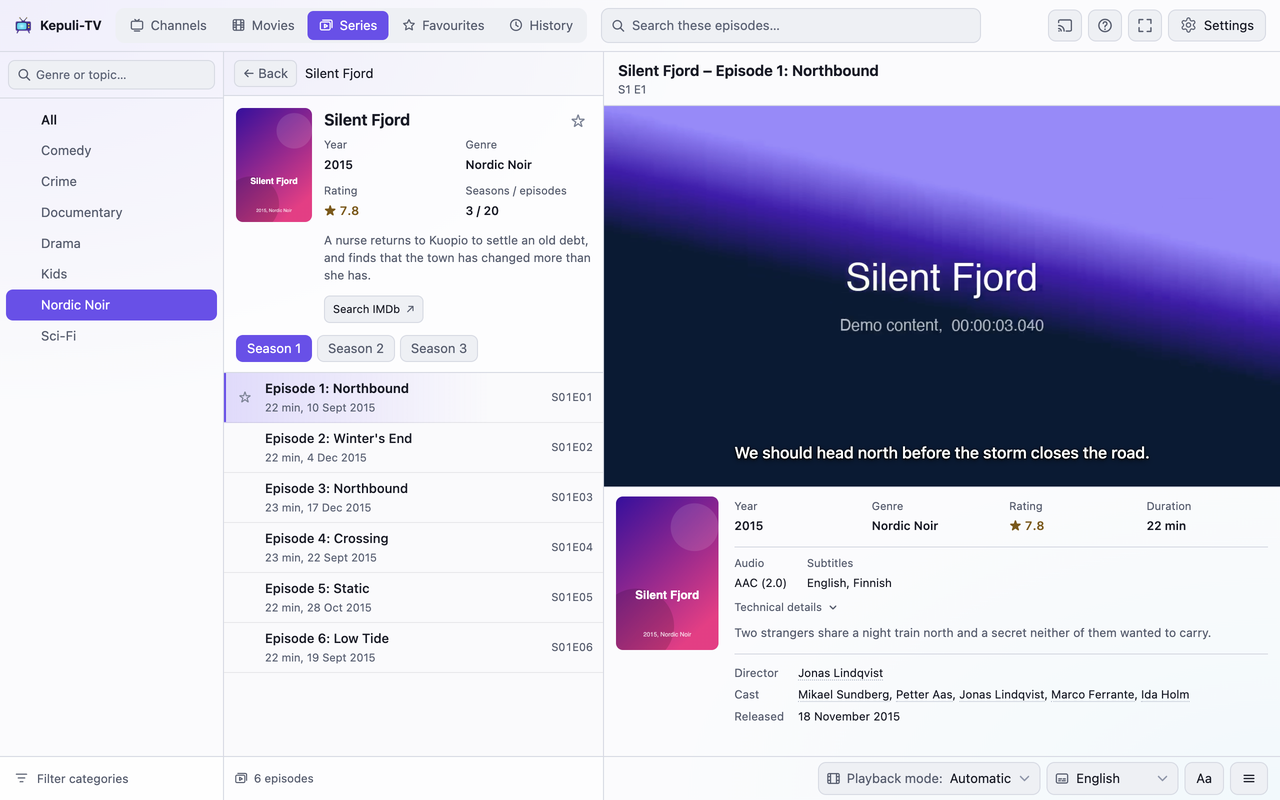
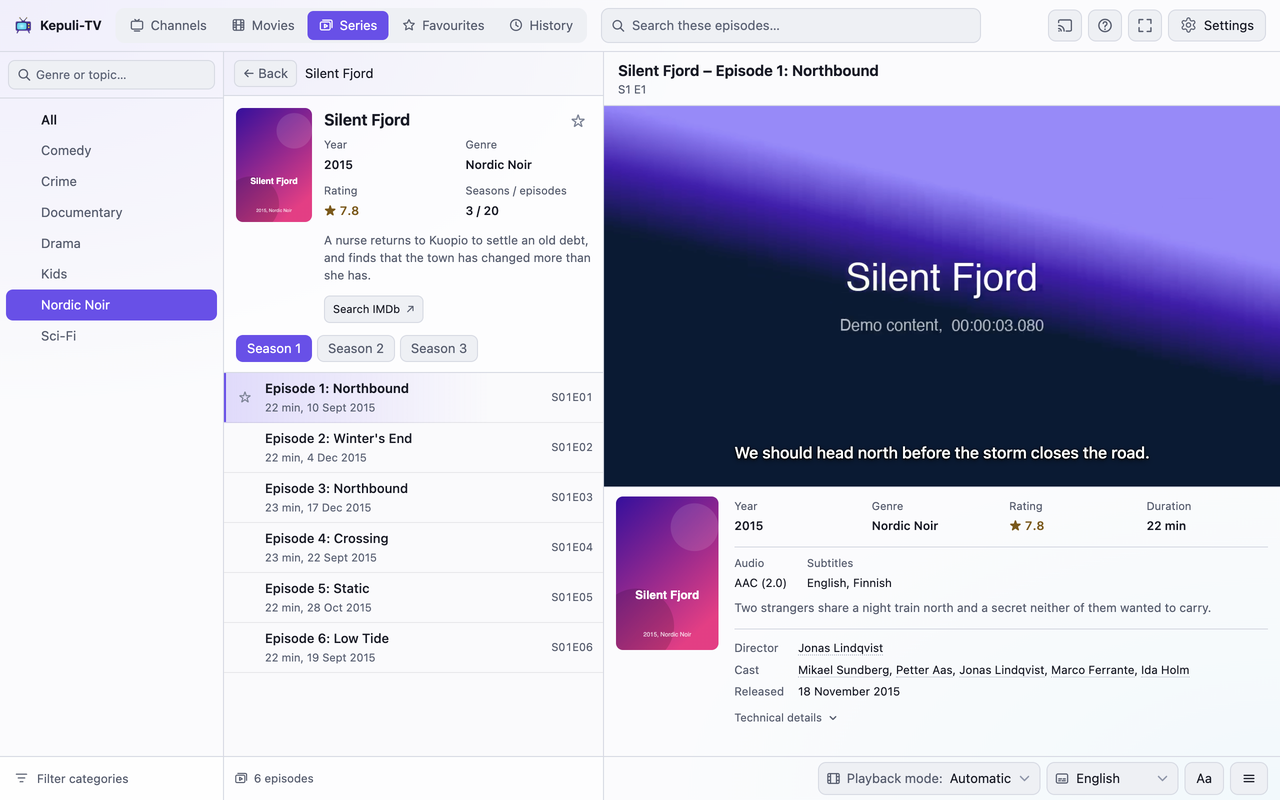
Technical details fold under the credits, and the app's picture keeps its size when they open
The fold stood between the audio line and the plot, parting the facts
of the title from what is told of it. It now comes after the credits
and before the titles alike; the audio and the subtitles stay in sight
at the top, as they decide whether one can follow the film. The
filmfacts scenario checks the place, and the reference pictures of the
film and subtitle views are retaken in both themes.

In the app the picture gave way to the details' height, so opening the
fold resized it, and the app's own picture over it followed a quarter
of a second later. Under .ios the details now take what the column has
left and scroll, and the picture is as tall as its shape. The browsers
keep the old sharing of the column.

The store screenshots of the film view still show the fold in its old
place.

Claude-Session: https://claude.ai/code/session_011jsMntd6GXRcB4RgccRtUz

Changed region(s): [[0.5625, 0.75, 0.9375, 0.9062]]

diff --git a/js/infostrip.js b/js/infostrip.js
@@ -156,7 +156,7 @@ function renderFirstDetails() {
   const named = (track) => track?.language && shortLanguage(track.language) !== 'und';
   const audio = heard && !named(heard) && named(info?.audio) ? { ...heard, language: info.audio.language } : heard;
   const subtitles = subtitleDetails(item, probed);
-  body.appendChild(playbackFacts({
+  const facts = playbackFacts({
     ext: item.ext,
     video,
     audio,
@@ -171,7 +171,13 @@ function renderFirstDetails() {
       audio: !audio && !header && state.playbackInfoLoading,
       subtitles: !subtitles && state.playbackInfoLoading,
     },
-  }));
+  });
+  // The audio and the subtitles stay up here, with what the title is; the
+  // fold of technical details goes under everything said of the title,
+  // where it does not part the facts from the plot.
+  const tech = facts.querySelector('.tech-facts');
+  tech?.remove();
+  body.appendChild(facts);
   if (info && info.plot) {
     const plot = document.createElement('div');
     plot.className = 'plot';
@@ -179,6 +185,7 @@ function renderFirstDetails() {
     body.appendChild(plot);
   }
   add(titleCredits(info, { title: item.n }));
+  if (tech) body.appendChild(tech);
   if (item.k === 1 || item.k === 2) add(relatedPart(item));
   box.appendChild(body);
   el.infostrip.replaceChildren(box);

diff --git a/css/last.css b/css/last.css
@@ -183,6 +183,15 @@ input[type="search"], input[type="text"], input[type="url"], input:not([type]) {
    full screen is in their bar, and the page's button under them could not
    be pressed. */
 .ios .videowrap.appbars .full-btn { display: none; }
+/* In the app the picture is as tall as its shape whatever the details
+   under it hold: they take what the column has left and scroll there.
+   With the details' own height as their share (css/details.css) the
+   picture gave way to them, so it changed size as the technical details
+   were opened, and the app's picture over it followed a moment later.
+   Not in a low window, whose own rule this is already (css/narrow.css). */
+@media (min-height: 441px) {
+  .ios main:not(.guide) .stage:has(> .videowrap.sized:not(:fullscreen, .full)) > .infostrip { flex: 1 1 0; }
+}
 html:not(.ios) .ios-only { display: none; }
 /* The guide's days under a finger, in a window wider than a phone's:
    the strip has all of the bar's row that the selector and the marks

diff --git a/css/playback.css b/css/playback.css
@@ -521,7 +521,7 @@ main:not(.guide) .stage:has(> .videowrap.sized:not(:fullscreen, .full)) .info-co
 .playback-warning { color: var(--gold); font-size: var(--fs-xs); }
 /* The format, the picture, the bit rate, the size and the way it plays,
    folded under the audio and the subtitles (playbackFacts). */
-.tech-facts { margin: -2px 0 8px; }
+.tech-facts { margin: 8px 0; }
 .tech-toggle { display: inline-flex; align-items: center; gap: 4px; list-style: none; color: var(--muted); font-size: var(--fs-xs); cursor: pointer; border-radius: 4px; }
 .tech-toggle::-webkit-details-marker { display: none; }
 .tech-toggle:hover { color: var(--text); }

diff --git a/ios/MEASURED.md b/ios/MEASURED.md
@@ -401,6 +401,11 @@ file is the working guide; `RELEASE.md` is the way to the App Store.
   its picture as a sublayer when the item is ready, after the controls'
   layers. The simulator (iOS 26.5) never showed it, and the frame and the
   state it reported were right throughout: only the owner's eyes found it.
+- **A picture whose box follows the details' height flashes.** The page
+  gave the picture what the details left (css/details.css), so opening
+  "Technical details" resized it, and the app's view followed up to a
+  quarter of a second later. In the app the picture keeps its shape's
+  height and the details scroll (css/last.css).
 - **The page's box may end between two pixels**, 376.875 points high on
   the iPad: the row the view half covered showed as a hairline across a
   dialog cut out of it. The frame is rounded to whole pixels and a hole
